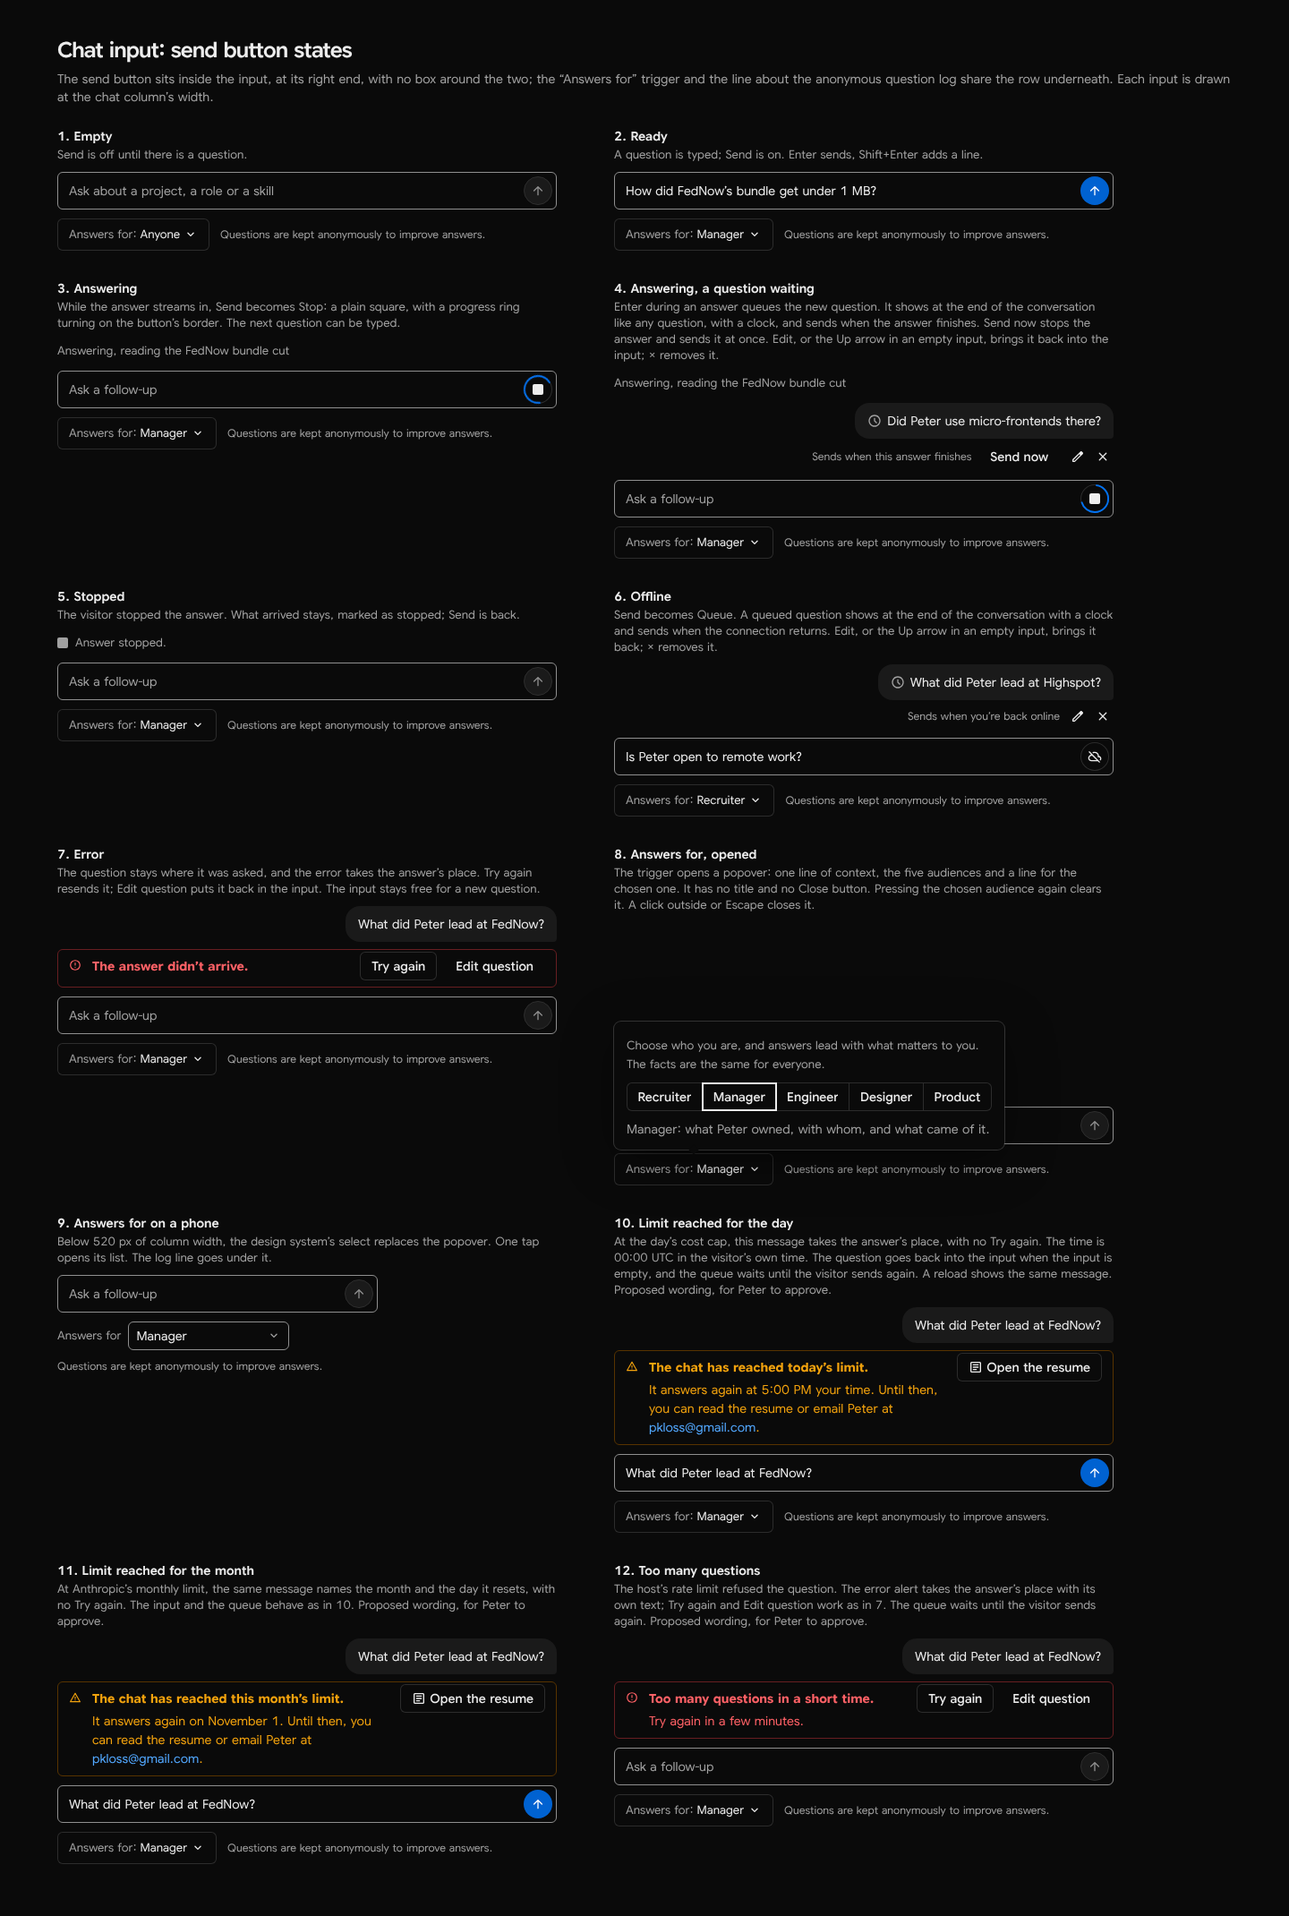
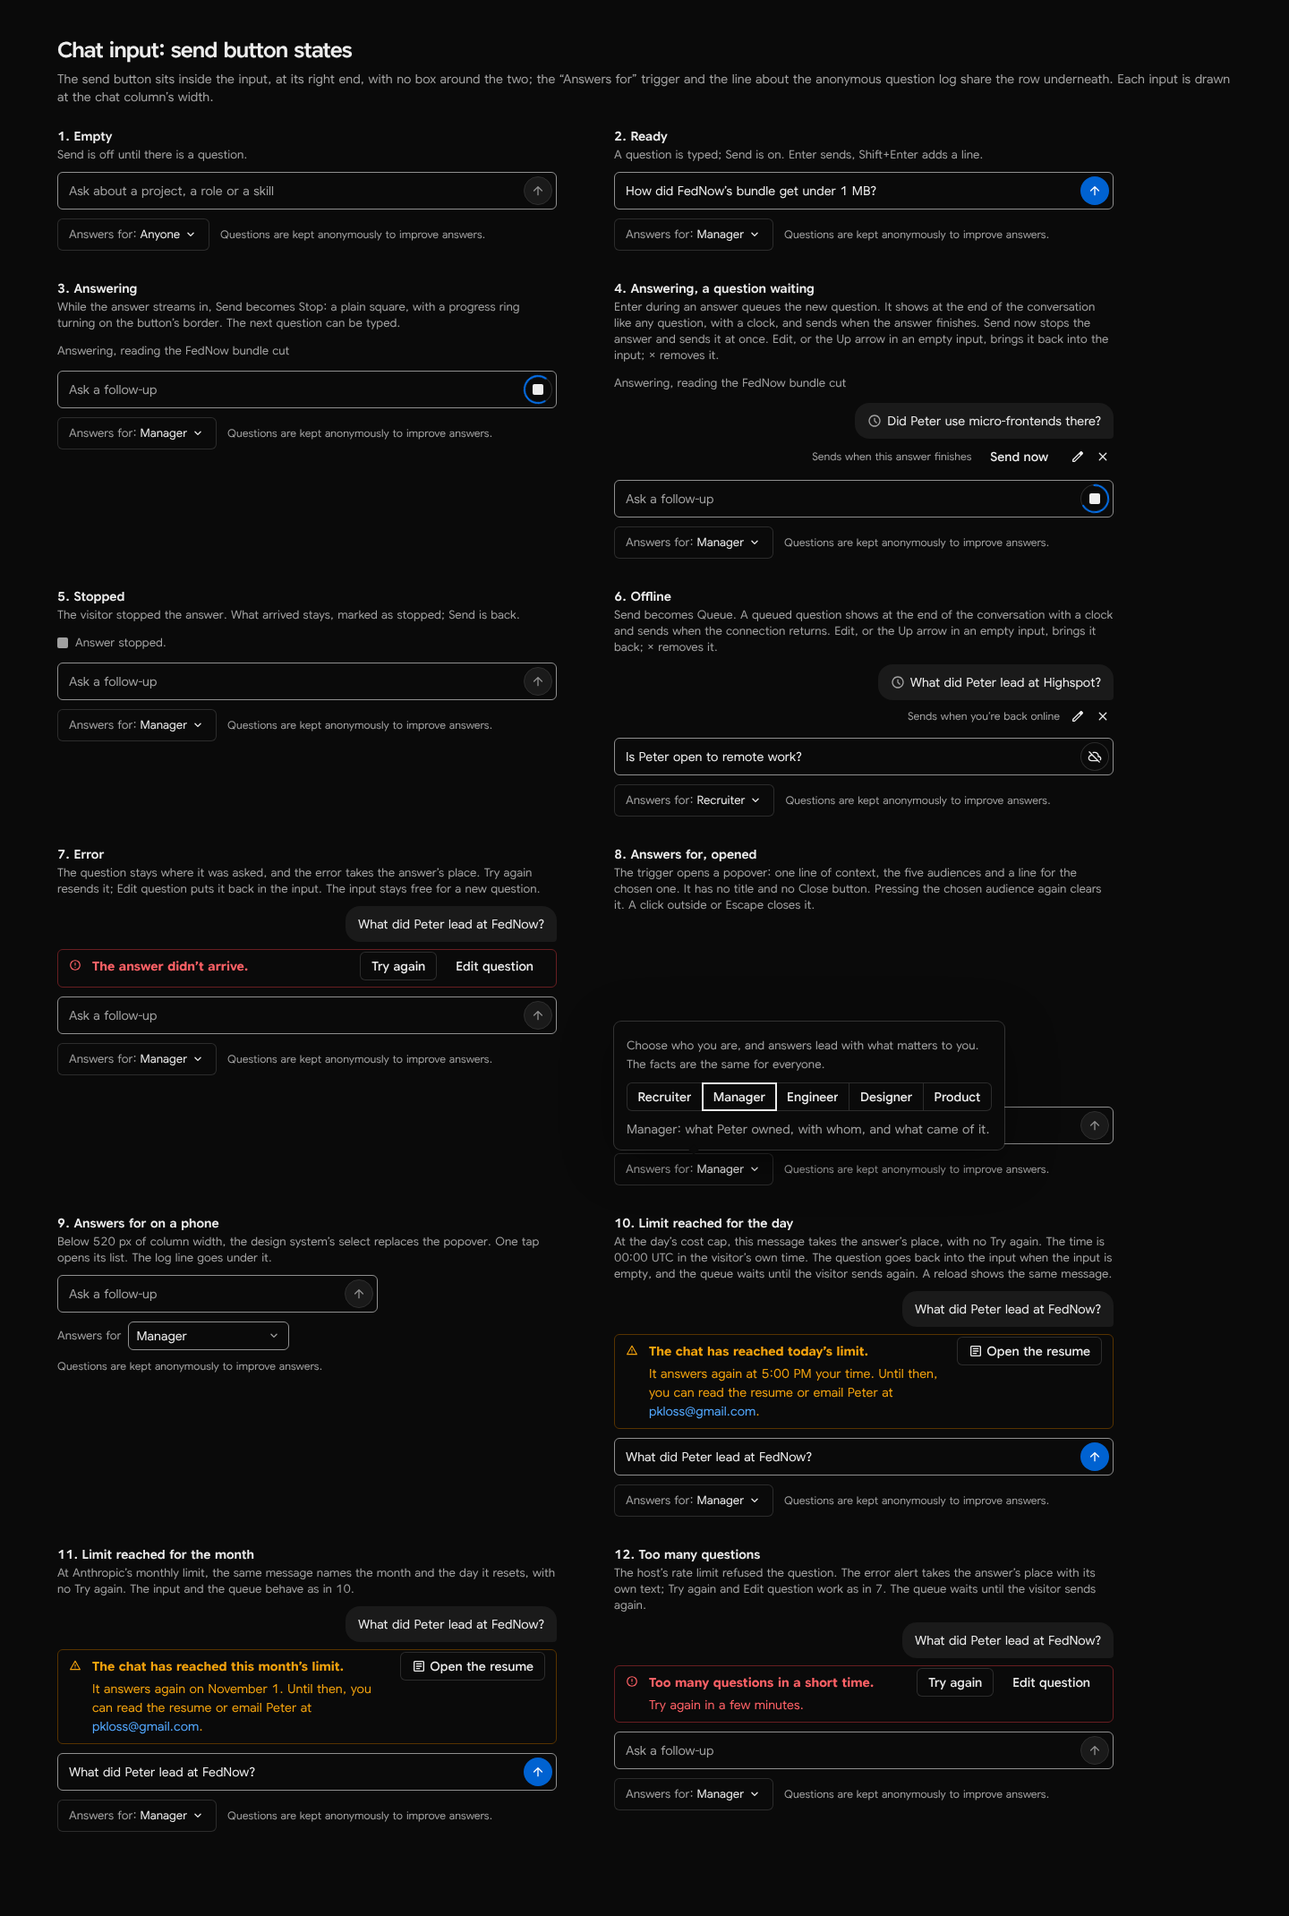
docs(spec): record the five approved texts (row 138)
Peter approved, as drawn on canvas version 46: the day and month
"limit reached" messages, the rate-limit alert, the not-found page and
the steps' citation line that names logistics answers. SPEC-chat,
SPEC-site and SPEC-deploy now hold the texts instead of waiting on them;
the not-found page follows the system theme because it has no script.

Claude-Session: https://claude.ai/code/session_014BSX4WgxM1CCuuA9ppYHQV

diff --git a/docs/STATUS.md b/docs/STATUS.md
@@ -9,7 +9,7 @@ Updated 2026-10-27. This file is the one current handoff. A fresh session resume
 - **Decided 2026-10-26 and 2026-10-27:** deep dives become sources the chat opens on demand ([0015](decisions/0015-sources-on-demand.md)); two layers, a cached core in every request and full sources read through a server tool ([0016](decisions/0016-two-layer-knowledge.md)); the visitor's session is saved on their device with a "New chat" control ([0017](decisions/0017-saved-visitor-session.md)); the site lives at peterkloss.dev, with pkloss.dev and pwk.dev redirecting to it ([0018](decisions/0018-domains.md)). Also recorded (decision record rows 29 and 30): the site offers to install itself and opens as a standalone app, and it needs an app icon. Research: [11](research/11-knowledge-tooling.md) (TanStack AI and Vercel's AI tools).
 - **Interview answers:** the chat history keeps no question-dialog answers. Peter supplied his own copy of the 2026-10-26 interview on 2026-10-27; it is kept word for word on this chat's private workspace branch (claude-sessions, `.scratch/resume/`), never in this repository, because it holds an internal Highspot link. Raw interview answers move to the private repo `loriensleafs/resume-private`, folder `interviews/`, once Peter creates it (row 129, [0024](decisions/0024-private-interview-repo.md)). His answers there come to about 2,560 words; the nine deep dives (3,924 words) keep nearly every fact from them, so more depth needs new material.
 - **Gathering method (Peter, 2026-10-27):** long-form interviews, one topic at a time, in normal chat messages (typed or spoken), never the question dialog. Each answer is saved word for word as a source file before anything is written from it.
-- **Mockups:** approved by Peter on 2026-10-27 ("I think this all looks pretty good"; decision record row 75). Images of every board, light and dark, are in [docs/design/mockups/](design/mockups/README.md); the board sources and the export script are on the branch `prototype/site-mockups`. The private Design canvas "Resume site mockups" (version 45, updated after the spec reviews and waiting for Peter's approval) stays the working copy. The choices behind the views are in the [decision record](design/interview-2026-10-26.md), rows 21 to 75, and the [site concepts](design/site-concepts-2026-10-26.md). Row 63, artifact cards in the chat, is settled by row 81: the resume card is the only card.
+- **Mockups:** approved by Peter on 2026-10-27 ("I think this all looks pretty good"; decision record row 75). Images of every board, light and dark, are in [docs/design/mockups/](design/mockups/README.md); the board sources and the export script are on the branch `prototype/site-mockups`. The private Design canvas "Resume site mockups" (version 46, updated after the spec reviews and waiting for Peter's approval; its new texts are approved, row 138) stays the working copy. The choices behind the views are in the [decision record](design/interview-2026-10-26.md), rows 21 to 75, and the [site concepts](design/site-concepts-2026-10-26.md). Row 63, artifact cards in the chat, is settled by row 81: the resume card is the only card.
 - **Spec:** the updated [SPEC-knowledge](../spec/SPEC-knowledge.md) is approved (2026-10-27): the core with a catalog, sources split into cited passages, the interview rules and six subjects. Decision [0019](decisions/0019-wider-chat-scope.md) widens the chat to career, working style, stories, opinions, side projects and skills.
 - **SPEC-chat approved (task 14, 2026-10-27):** [SPEC-chat](../spec/SPEC-chat.md). Each turn is a fixed workflow with one bounded read loop ([0021](decisions/0021-chat-turn-workflow.md)); an anonymous question log ([0020](decisions/0020-anonymous-question-log.md)); the fit check; the whole resume opens beside the chat when asked; test seams are the `/api/chat` handler with TanStack AI's fake model and the browser test, plus `bun run evals` on Peter's approval (decision record rows 79 to 84). SPEC-site gained the resume view's ⋯ download menu, `openResume()`, an optional citation number and an app-bar end slot; SPEC-knowledge lets logistics answers be cited.
 - **Spec audit (2026-10-27, decision record rows 85 to 101):** Peter asked whether the right brain skills were loaded. An audit with the missing skills, the design system's skills and its MCP server amended SPEC-chat, SPEC-site and the glossary:
@@ -29,7 +29,6 @@ Updated 2026-10-27. This file is the one current handoff. A fresh session resume
 ## Waiting on Peter
 
 - The approval of the amended specs and the updated mockups.
-- Wordings, drawn on the mockups as proposals: the "limit reached" texts (day and month), the 429 text, and the not-found page's text.
 - Create the private repo `loriensleafs/resume-private` on GitHub (private). Then an agent moves the raw 2026-10-26 interview into its `interviews/` folder.
 - For the deploy spike, when the plan reaches it: a second, throwaway Vercel project from the branch `prototype/deploy-spike` and a pay-as-you-go Upstash database for it (cents). Each push to it needs your approval.
 - Buy peterkloss.dev, pkloss.dev and pwk.dev when ready, at a registrar or through Vercel ([0018](decisions/0018-domains.md)). Agents never buy.

diff --git a/spec/SPEC-chat.md b/spec/SPEC-chat.md
@@ -56,7 +56,7 @@ A turn is one question and its answer, with the reads made for it.
 | The model fails, or the stream breaks after it started | The same alert | `error` |
 | The request fails before any response (a network error) | The question goes back to the front of the queue as a queued question, and the input shows the offline state. The chat tries again every 30 s and on the `online` event | none (the function does not run) |
 | The host's rate limit answers 429 | The same alert, with "Too many questions in a short time. Try again in a few minutes." The queue pauses until the visitor sends again | none (the function does not run) |
-| The day's cost cap or Anthropic's monthly limit is reached | The "limit reached" state: Peter's email and a link that opens the resume, with no Try again. The question goes back into the input only when the input is empty. The queue pauses, and a saved pause marker keeps the state after a reload. Peter approves the wording for the day and the month | `limit`; a refusal before the model call writes no log entry |
+| The day's cost cap or Anthropic's monthly limit is reached | The "limit reached" state: Peter's email and a link that opens the resume, with no Try again. The question goes back into the input only when the input is empty. The queue pauses, and a saved pause marker keeps the state after a reload. The wording (Peter, row 138): for the day, "The chat has reached today's limit." and "It answers again at <00:00 UTC in the visitor's time, such as 5:00 PM> your time. Until then, you can read the resume or email Peter at <email>."; for the month, "The chat has reached this month's limit." and "It answers again on <the first day of next month, such as November 1>. Until then, you can read the resume or email Peter at <email>."; the button "Open the resume" | `limit`; a refusal before the model call writes no log entry |
 
 A reload during an answer cannot rejoin the stream, because the server keeps no conversation. The answer's row is written only when the answer ends, so the restored conversation shows that question with the error alert and no partial text.
 
@@ -193,7 +193,7 @@ The approved mockups are the reference. The [image index](../docs/design/mockups
 - The `topic` text, follow-up questions and citation labels render as plain text.
 - The prose uses the design system's tokens. The plan checks whether `acme-markdown`'s `[data-acme-markdown-prose]` styles can be reused.
 
-**Answer steps** (rows 62 and 65). While answering, each step appears in a bordered box as it happens; the current step has a spinner and a moving highlight. The steps are "Found 1 source about <topic>", "Reading <title>", and "Checking citations". "Checking citations" shows from the first answer text after the last read until the `chat.citations` event arrives. When done, the box folds into one line above the answer: "Read 1 source and checked 3 citations". Opened, each row opens on its own: the passages read, by number and heading; and "Each citation points to a passage the chat read or to the resume." When the check removed a marker, the row says so: "Checked 3 citations, removed 1." The steps line shows only when the turn read.
+**Answer steps** (rows 62 and 65). While answering, each step appears in a bordered box as it happens; the current step has a spinner and a moving highlight. The steps are "Found 1 source about <topic>", "Reading <title>", and "Checking citations". "Checking citations" shows from the first answer text after the last read until the `chat.citations` event arrives. When done, the box folds into one line above the answer: "Read 1 source and checked 3 citations". Opened, each row opens on its own: the passages read, by number and heading; and "Each citation points to a passage the chat read, to the resume or to one of Peter's logistics answers." (row 138) When the check removed a marker, the row says so: "Checked 3 citations, removed 1." The steps line shows only when the turn read.
 
 **Citations card.** One row per kept citation of this answer, numbered from 1 in order of first use; the card lists only its own answer's citations (row 133). Each row has the icon, "<source title>: <passage heading>" or "Resume: <label>" or "Logistics: <topic>", and its action: "Open beside the chat" for a passage, "Show in the resume" for a resume entry of any kind (basics, a role, a highlight, a skills group, education), none for a logistics answer. The row of the open citation is tinted, and its action reads "Shown in the resume" when it is the resume. Labels come from the device index, which holds one label per resume entry, for example "Resume: FedNow" for a role and "Resume: FedNow, highlight 2" for a highlight. An id that no longer exists shows as plain text.
 

diff --git a/spec/SPEC-deploy.md b/spec/SPEC-deploy.md
@@ -241,7 +241,7 @@ Three Vercel WAF rules, per IP address:
 
 - The content-type rule stops the cheapest cross-site attack before the function runs: a page on another site can post a form, but a form cannot send `application/json` without the browser first asking the server's permission, which the site never gives. The handler's Origin check (SPEC-chat amendment 9) is the second guard.
 - Denied requests cost nothing and do not run the function.
-- SPEC-chat already maps a 429 to its alert. Its text changes to "Try again in a few minutes", for Peter's approval with the other wordings.
+- SPEC-chat already maps a 429 to its alert. Its text changes to "Too many questions in a short time." and "Try again in a few minutes.", approved by Peter (row 138).
 - `/api/cron/health` answers 401 at once without the right `CRON_SECRET`, before it reads anything.
 - Whether a WAF path condition matches without regard to case, and whether the content-type condition works as written, are spike checks. The case-sensitive API routes already send `/API/chat` to the not-found page.
 
@@ -324,7 +324,7 @@ Either gives `errorCode: "SPEND_LIMIT"` and sets the marker `limit:spend` with t
 - A turn that meets Anthropic's limit during the run ends with `RUN_ERROR` and the code `SPEND_LIMIT`.
 - In both cases the telemetry outcome is `limit`, and the saved answer keeps the outcome `limit`, so a reload shows the same state.
 - The browser shows the "limit reached" state, with Peter's email, a link that opens the resume, and no Try again. The question goes back into the input only when the input is empty, and the question queue pauses until the visitor sends again (SPEC-chat).
-- The words come to Peter with the other wordings. These are amendments to SPEC-chat (below).
+- Peter approved the words (row 138); SPEC-chat holds them. These are amendments to SPEC-chat (below).
 
 ## The question log, daily totals, alerts and status
 
@@ -872,4 +872,4 @@ The real platform is checked by the deploy spike, by the release check, by the t
 
 ## Open Questions
 
-None for this spec. The platform questions are the deploy spike's checks. For Peter, with the other wordings: the "limit reached" texts (day and month), the new 429 text and the not-found page's text.
+None for this spec. The platform questions are the deploy spike's checks. The "limit reached" texts, the 429 text and the not-found page's text are approved (row 138).

diff --git a/docs/design/mockups/README.md b/docs/design/mockups/README.md
@@ -11,16 +11,16 @@ Updated later on 2026-10-27 (canvas version 44; [decision record](../interview-2
 - The conversation board shows the resume card.
 - The "Welcome back" notice is gone.
 
-Updated again on 2026-10-27 after the spec reviews (canvas version 45; [decision record](../interview-2026-10-26.md) rows 133 and 136). These changes wait for Peter's approval with the amended specs:
+Updated again on 2026-10-27 after the spec reviews (canvas version 46; [decision record](../interview-2026-10-26.md) rows 133, 136 and 138). Peter approved the new texts in row 138; the rest waits for his approval with the amended specs:
 
 - Each answer numbers its own citations from 1, and its card lists only its own citations (row 133). Citation numbers in answers are drawn as the citation buttons on every board.
 - In the resume, every highlight the latest answer cites shows its number; only the opened one is tinted, with a blue number.
 - The audience lines read "Manager:" and "Recruiter:".
 - The phone boards show the "Answers for" select and the anonymous-log line under the input.
 - The phone sheets have no grab handle: the design system's drawer has no swipe to close.
-- New input states: limit reached for the day and for the month, and "Too many questions". Their texts are proposals for Peter to approve.
-- A new not-found page, desktop and phone. It has no script, so it follows the system's light or dark setting, not the visitor's own choice. Its text is a proposal for Peter to approve.
-- The steps' citation line also names Peter's logistics answers (a proposal).
+- New input states: limit reached for the day and for the month, and "Too many questions". Peter approved their texts (row 138).
+- A new not-found page, desktop and phone. It has no script, so it follows the system's light or dark setting, not the visitor's own choice. Peter approved its text (row 138).
+- The steps' citation line also names Peter's logistics answers (row 138).
 
 The mockups were made on a private Claude Design canvas, "Resume site mockups", with Peter's ACME design system 0.3.2. These images are rendered from the canvas boards. The board sources are on the branch [`prototype/site-mockups`](https://github.com/loriensleafs/resume/tree/prototype/site-mockups/prototypes/site-mockups), not on `main`, because they open only inside the canvas.
 

diff --git a/spec/SPEC-site.md b/spec/SPEC-site.md
@@ -105,7 +105,7 @@ The address follows the view, with `history.replaceState`, so it adds no history
 - `/?role=<id>` while a role is selected and no source is open;
 - `/` otherwise.
 
-So a visitor shares a role or a source by copying the address. An unknown source or role id in a query (`?source=`, `?role=`) gives the first view, not an error. An unknown path, `/sources/<unknown id>` included, gets the not-found page with status 404: "Page not found" with links to the chat and to the resume, and no script. Peter approves its wording. A citation to an id that no longer exists shows as plain text (SPEC-knowledge).
+So a visitor shares a role or a source by copying the address. An unknown source or role id in a query (`?source=`, `?role=`) gives the first view, not an error. An unknown path, `/sources/<unknown id>` included, gets the not-found page with status 404: "Page not found" with links to the chat and to the resume, and no script. Its wording (Peter, row 138): "404", the heading "Page not found", "There is no page at this address. The link may be mistyped, or the page may have moved.", and the links "Ask the chat about Peter's work" (`/`) and "Read Peter's resume" (`/resume`). It follows the system's light or dark setting, because a page with no script cannot read the visitor's stored theme. A citation to an id that no longer exists shows as plain text (SPEC-knowledge).
 
 ## Saved views
 

diff --git a/docs/design/interview-2026-10-26.md b/docs/design/interview-2026-10-26.md
@@ -147,6 +147,7 @@ Peter asked for: every AI agent supported in this repository (AGENTS.md, CLAUDE.
 | 135 | Approve two dependencies: nitro 3.0.260903-beta and react-dom 19.3.1, pinned? | Approved both. The recommendation was this option |
 | 136 | (Peter, 2026-10-27) Mockups after spec changes | "If there are changes that mean we need to update the mockups, we should update them to match those changes." |
 | 137 | When a visitor picks a role, where do the scope chip's short name and years come from? (Peter first confirmed that a request for the whole resume sets no scope.) | The site passes them: `Scope` becomes `{ roleId, label, years }`, filled from `resume.yaml`, so the chip shows at once. An amendment to the contract approved in row 134. The recommendation was this option |
+| 138 | Approve five proposed texts on canvas version 45: the day and month "limit reached" messages, the rate-limit alert, the not-found page, and the steps' citation line that names logistics answers? | Approved all five as drawn. The recommendation was this option |
 
 After question 24, Peter asked for mockups of the site with his design system before the site spec is written. They are on a private Design canvas, "Resume site mockups", for his review.
 

diff --git a/tasks/todo.md b/tasks/todo.md
@@ -44,5 +44,5 @@ Order (Peter, 2026-10-27): write and approve every remaining spec first (tasks 9
 - [ ] 14. Write SPEC-chat.md (with the Agent Design plugin), then SPEC-deploy.md and SPEC-agents.md, each for Peter's review
   - [x] SPEC-chat.md, approved 2026-10-27 (decision record row 84)
   - [x] SPEC-deploy.md, approved 2026-10-27 (decision record row 127); its first plan task is the deploy spike
-  - [ ] Adversarial reviews of SPEC-knowledge, SPEC-site and SPEC-chat, plus a cross-spec pass (row 123): 100 findings; Peter decided rows 128 to 136; fixes applied to all five specs and the mockups (canvas version 45); a consistency check's 15 findings fixed. Waits for Peter's approval of the amended specs and mockups.
+  - [ ] Adversarial reviews of SPEC-knowledge, SPEC-site and SPEC-chat, plus a cross-spec pass (row 123): 100 findings; Peter decided rows 128 to 136; fixes applied to all five specs and the mockups (canvas version 46); the scope chip's label (row 137) and five texts (row 138) decided; a consistency check's 15 findings fixed. Waits for Peter's approval of the amended specs and mockups.
   - [ ] SPEC-agents.md
